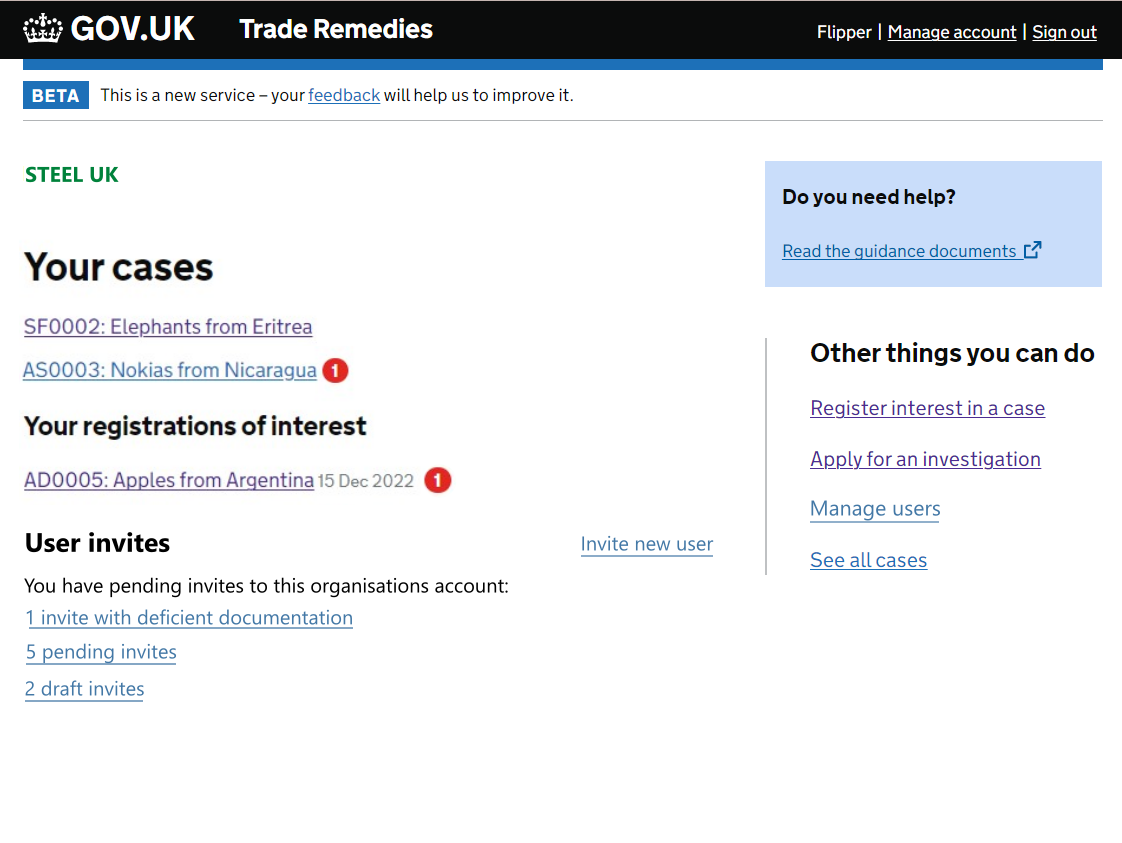
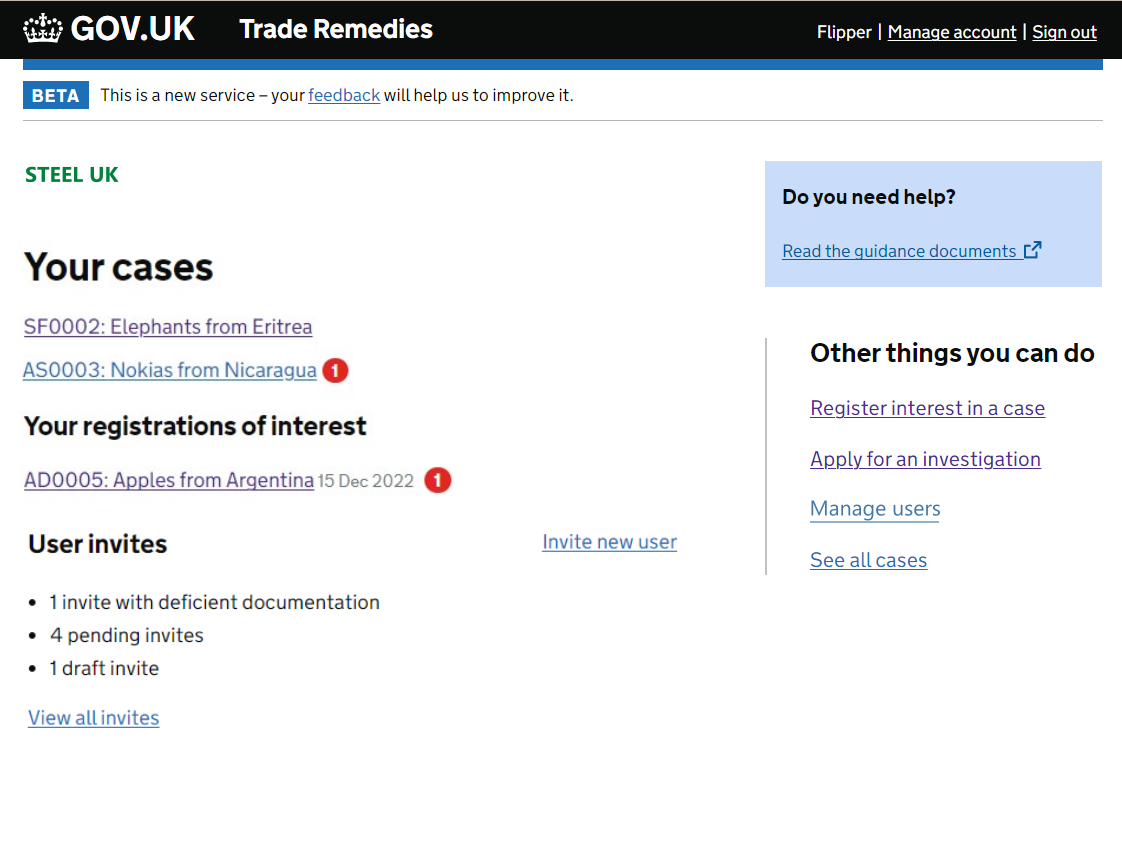
invites

Changed region(s): [[0.0, 0.6168, 0.4679, 0.8636], [0.4679, 0.6168, 0.6239, 0.6785]]

diff --git a/app/views/public-site/dashboard.html b/app/views/public-site/dashboard.html
@@ -50,12 +50,12 @@
          <div class="address-card">
             <div class="address-container">
               <h2 class="govuk-heading-m clearfix">
-                Register an interest in a case
+                Register interest in a case
                 <span class="govuk-body right-aligned-link">
-                  <a href="/public-site/manage-org/manage-org#manage-cases" class="govuk-link--no-visited-state">Manage cases</a>
+                  <a href="/public-site/manage-org/manage-org-case" class="govuk-link--no-visited-state">Manage cases</a>
                 </span>
               </h2>
-              <p><a href="" class="govuk-link--no-visited-state">Register interest in a case</a> if you want to be able to</p>  
+              <p><a href="reg-interest/reginterest-tasks?tasklist-type=reg-interest" class="govuk-link--no-visited-state">Register interest</a> if you want to be able to</p>  
               <ul class="govuk-list govuk-list--bullet">
                 <li>take part in an investigation</li>
                 <li>get updates on important developments</li>
@@ -73,7 +73,7 @@
                 </span> 
               </h2>
               <p>Give access to your organisation's active cases by inviting users to join your account.</p>
-              <p><a href="" class="govuk-link--no-visited-state">Invite user</a></p>
+              <p><a href="manage-org/invite/invite-user-type" class="govuk-link--no-visited-state">Invite user</a></p>
 
             </div>
           </div>
@@ -229,7 +229,7 @@
                 </span> 
               </h2>
               <p>Give access to your organisation's active cases by inviting users to join your account.</p>
-              <p><a href="" class="govuk-link--no-visited-state">Invite user</a></p>
+              <p><a href="manage-org/invite/invite-user-type" class="govuk-link--no-visited-state">Invite user</a></p>
             </div>
           </div>
           {% else %}
@@ -238,21 +238,21 @@
               <h2 class="govuk-heading-m clearfix">
                  User invites
                 <span class="govuk-body right-aligned-link">
-                <a href="/public-site/manage-org/manage-org-user" class="govuk-link--no-visited-state">Invite new user</a>
+                <a href="manage-org/invite/invite-user-type" class="govuk-link--no-visited-state">Invite new user</a>
                 </span> 
               </h2>
-              <p>You have pending invites to this organisations account:</p>
-              <ul class="govuk-list">
+              <ul class="govuk-list govuk-list--bullet">
                 <li>
-                  <a href="manage-org/manage-org-user#manage-invites" class="govuk-link--no-visited-state">2 draft invites</a>
+                  1 invite with deficient documentation
                 </li>
                 <li>
-                  <a href="manage-org/manage-org-user#manage-invites" class="govuk-link--no-visited-state">5 pending invites</a>  
+                 4 pending invites
                 </li>
                 <li>
-                  <a href="manage-org/manage-org-user#manage-invites" class="govuk-link--no-visited-state">1 invite with deficient documentation </a>
+                 1 draft invite
                 </li>
               </ul>
+              <p><a href="/public-site/manage-org/manage-org-user#manage-invites" class="govuk-link--no-visited-state">View all invites</a></p>
             </div>
           </div>
           

diff --git a/app/views/public-site/dashboard-invite-v1-5.html b/app/views/public-site/dashboard-invite-v1-5.html
@@ -9,7 +9,7 @@
 <table role="presentation" width="100%" style="border-collapse: collapse;min-width: 100%;width: 100% !important;" cellpadding="0" cellspacing="0" border="0">
   <tbody>
     <tr align="center">
-      <td><a href="/public-site/manage-org/manage-org-user#manage-invites"></href><img src="/public/images/dashboard-pending-invites.png"></a></td> 
+      <td><a href="/public-site/manage-org/manage-org-user"></href><img src="/public/images/dashboard-pending-invites.png"></a></td> 
     </tr>
   </tbody>
 </table>
